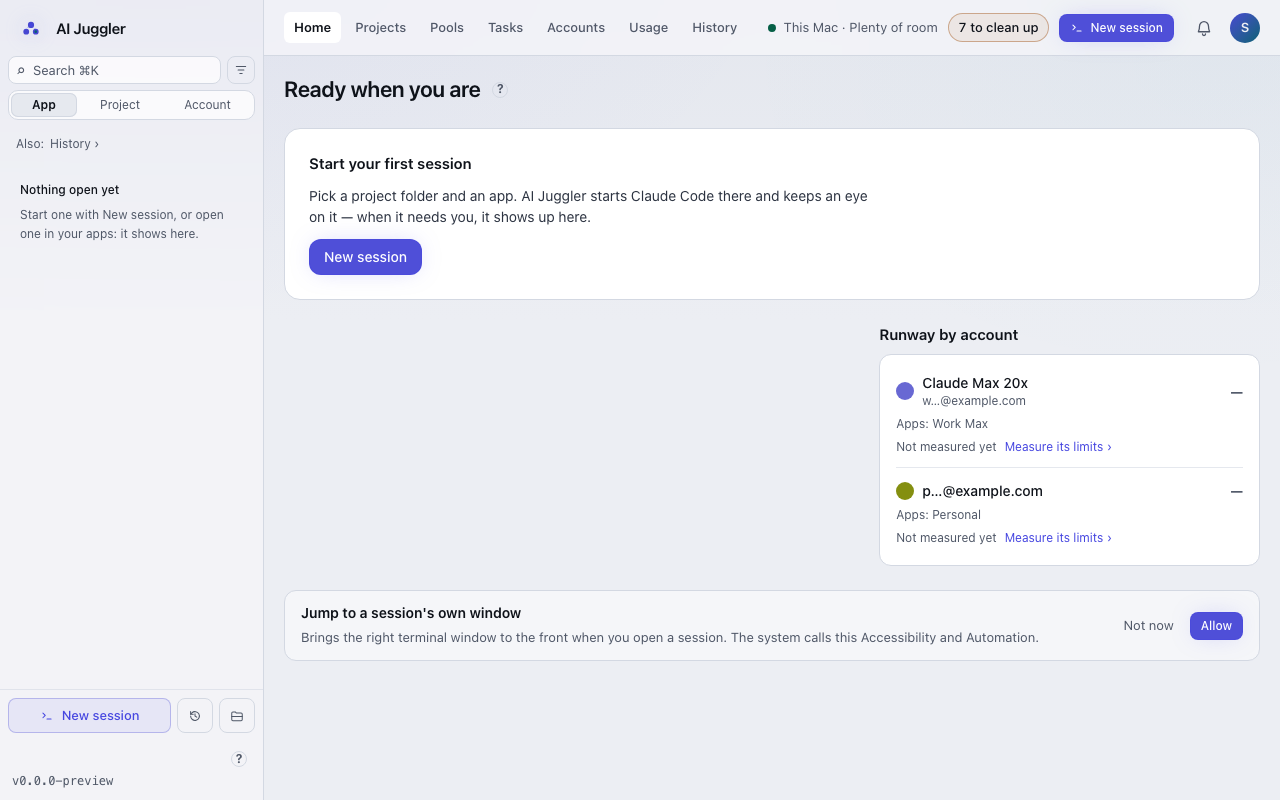
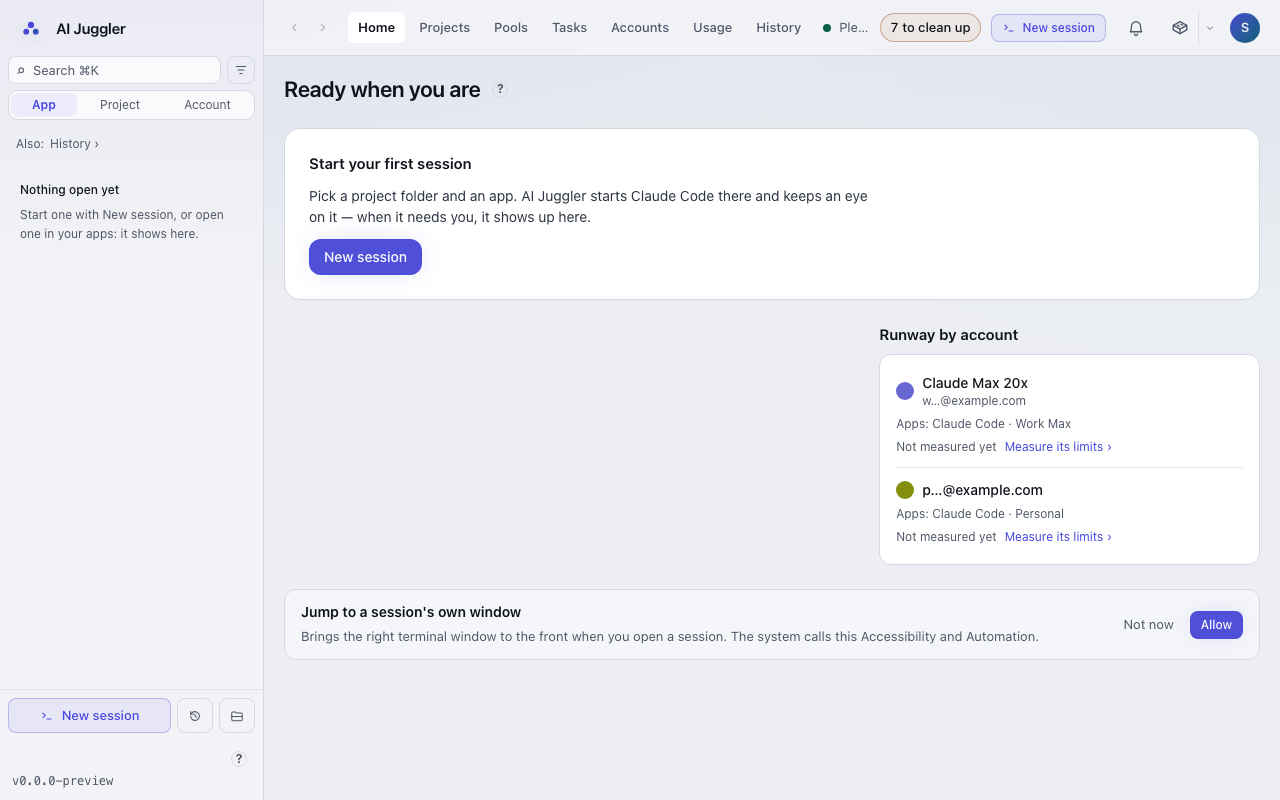
fix(ui): Home's Your apps cards line up (0.4.1)
The maintainer found the cards out of line: badges and buttons at
different heights, account lines on two lines, bars at different heights.
Every card now keeps the same rows: the name, one profile line, the
account line and its usage bar, then one bottom row with the action on
the left and "1 needs you" on the right. The account line is one line,
cut, with the whole words in its tooltip. A card with nothing there
keeps the row empty so bars and buttons line up; when no card in view
shows room, the rows are left out (no gap). Closed apps put their state
where the account line goes and Start in the same bottom row. Buttons
read "Open" (the card names the app; the accessible name stays whole).
"kept alive" moves beside the app's name so it never squeezes the
profile. A new places-gallery capture (home-cards, both themes) shows
measured room, a low Account and closed apps; 94-places and 95-app-icons
are re-captured with their critiques updated and stamped. A Home test
checks the shared rows and the badge in the Open row.

diff --git a/ui/src/components/HomeApps.tsx b/ui/src/components/HomeApps.tsx
@@ -54,7 +54,7 @@ function bringForward(group: RailGroup): void {
 /** 0.3.3: an app or profile kept alive (0.3.4: any remembered one) that
  * no session tile shows: down (why, and Start) or running with nothing
  * open yet (Open). */
-function KeptTile({ place }: { place: KnownPlaceInfo }): JSX.Element {
+function KeptTile({ place, rows }: { place: KnownPlaceInfo; rows: Rows }): JSX.Element {
   const running = place.app_pid !== null;
   // The open tiles' word for it ("Claude app"), D-64.
   const app = knownAppWord(place);
@@ -70,7 +70,7 @@ function KeptTile({ place }: { place: KnownPlaceInfo }): JSX.Element {
   };
   return (
     <li
-      className={"flex min-w-0 flex-col gap-3 rounded-card border border-hairline bg-surface p-4 " + (running ? "shadow-card" : "border-dashed")}
+      className={"flex h-full min-w-0 flex-col gap-3 rounded-card border border-hairline bg-surface p-4 " + (running ? "shadow-card" : "border-dashed")}
       data-testid={running ? "home-app-kept" : "home-app-closed"}
       data-place={place.id}
     >
@@ -80,16 +80,29 @@ function KeptTile({ place }: { place: KnownPlaceInfo }): JSX.Element {
           <AppName id={place.id} name={name}>
             {app}
           </AppName>
-          {profile && (
-            <span className="flex min-w-0 items-center gap-1 text-meta font-semibold text-ink">
-              <ProfileBadge app={place.colour_slot ?? place.id} name={profile} />
-              <span className="truncate">{profile}</span>
-            </span>
-          )}
+          {/* Always two lines, as a running card's: the profile, or none. */}
+          <span className="flex min-w-0 items-center gap-1 text-meta font-semibold text-ink">
+            {profile ? (
+              <>
+                <ProfileBadge app={place.colour_slot ?? place.id} name={profile} />
+                <span className="truncate" title={profile}>
+                  {profile}
+                </span>
+              </>
+            ) : (
+              "\u00a0"
+            )}
+          </span>
         </div>
       </div>
-      <span className={"text-meta " + (place.paused || place.lost ? "text-warning" : "text-muted")}>{placeWords(place)}</span>
-      <div className="mt-auto flex flex-wrap items-center gap-2">
+      {/* Its state where a running card's account line is. */}
+      <div className="flex flex-col gap-1">
+        <span className={"truncate text-meta " + (place.paused || place.lost ? "text-warning" : "text-muted")} title={placeWords(place)}>
+          {placeWords(place)}
+        </span>
+        {rows.bar && <div className="h-1.5" aria-hidden="true" />}
+      </div>
+      <Actions needs={0}>
         <button
           type="button"
           onClick={start}
@@ -101,8 +114,55 @@ function KeptTile({ place }: { place: KnownPlaceInfo }): JSX.Element {
           {/* The tile names the App already: "Start" (design review #48). */}
           {verb}
         </button>
-      </div>
+      </Actions>
     </li>
+  );
+}
+
+/** 0.4.1: which rows the cards in view keep, so every card lines up: the
+ * account line when any card has one (a down app's state stands there),
+ * the usage bar when any card has a measured one; none of them, no gap. */
+interface Rows {
+  words: boolean;
+  bar: boolean;
+}
+
+/** 0.4.1: a tile's account line and usage bar, the rows the cards in view
+ * keep (an empty one keeps its height): one line, cut with the whole words
+ * in its tooltip. */
+function AccountRows({ words, left, label, low, rows }: { words: string | null; left: number | null; label: string; low: boolean; rows: Rows }): JSX.Element | null {
+  if (!rows.words && !rows.bar) return null;
+  return (
+    <div className="flex flex-col gap-1" data-testid="home-app-account">
+      {rows.words && (
+        <span className={"truncate text-meta " + (low ? "text-warning" : "text-muted")} title={words ?? undefined}>
+          {words ?? "\u00a0"}
+        </span>
+      )}
+      {left !== null ? (
+        <div className="h-1.5 overflow-hidden rounded-full bg-surface-3" role="meter" aria-valuemin={0} aria-valuemax={100} aria-valuenow={left} aria-label={`${label}: ${words ?? ""}`}>
+          <div className={"h-full rounded-full " + (low ? "bg-warning" : "bg-accent")} style={{ width: `${left}%` }} />
+        </div>
+      ) : rows.bar ? (
+        <div className="h-1.5" aria-hidden="true" />
+      ) : null}
+    </div>
+  );
+}
+
+/** 0.4.1: the bottom row, in the same place on every card: the action on
+ * the left, what needs you (when anything does) on the right; one line. */
+function Actions({ children, needs }: { children: JSX.Element | null; needs: number }): JSX.Element {
+  return (
+    <div className="mt-auto flex min-h-7 flex-nowrap items-center justify-between gap-2">
+      {children ?? <span />}
+      {needs > 0 && (
+        <span className="inline-flex shrink-0 items-center gap-1 whitespace-nowrap rounded-full bg-warning-soft px-2 py-0.5 text-label font-semibold text-warning" data-testid="home-app-needs" title="Listed under Needs you">
+          <IconAlert width={11} height={11} aria-hidden="true" />
+          {needs} {needs === 1 ? "needs" : "need"} you
+        </span>
+      )}
+    </div>
   );
 }
 
@@ -123,75 +183,61 @@ function AppName({ id, name, children }: { id: string | null; name: string; chil
   );
 }
 
-function Tile({ group, runway, kept, appId }: { group: RailGroup; runway: Runway | null; kept: boolean; appId: string | null }): JSX.Element {
+function Tile({ group, runway, kept, appId, rows }: { group: RailGroup; runway: Runway | null; kept: boolean; appId: string | null; rows: Rows }): JSX.Element {
   const place = group.place!;
   const needs = group.items.filter((item) => item.need !== null).length;
   const count = group.items.length;
   const low = runway?.left !== null && runway?.left !== undefined && runway.left <= 25;
   const name = [place.app, place.profile].filter(Boolean).join(" · ");
   return (
-    <li className="flex min-w-0 flex-col gap-3 rounded-card border border-hairline bg-surface p-4 shadow-card" data-testid="home-app-tile" data-place={place.key}>
+    <li className="flex h-full min-w-0 flex-col gap-3 rounded-card border border-hairline bg-surface p-4 shadow-card" data-testid="home-app-tile" data-place={place.key}>
       <div className="flex min-w-0 items-start gap-3">
         <AppIcon appId={place.appId} appPid={place.appPid} name={place.app} size={32} />
         <div className="flex min-w-0 flex-1 flex-col gap-0.5">
-          <AppName id={appId} name={name}>
-            {place.app}
-          </AppName>
-          {/* The profile's badge beside its name, never on the icon
-              (D-38); the count moves under it rather than being cut. */}
-          <span className="flex min-w-0 flex-wrap items-center gap-x-1 gap-y-0.5 text-meta text-muted">
-            {place.profile && (
-              <span className="flex min-w-0 max-w-full items-center gap-1 font-semibold text-ink">
-                <ProfileBadge app={place.key} name={place.profile} />
-                <span className="truncate">{place.profile}</span>
-              </span>
-            )}
-            {place.profile ? <span>·</span> : null}
-            <span className="whitespace-nowrap">{count === 1 ? "1 session" : `${count} sessions`}</span>
-            {/* A pill, not "· kept alive": wrapped under the count, a line
-                that starts with a dot read as a fragment. */}
+          {/* The app's name, then "kept alive" beside it, where a
+              short name leaves room (0.4.1: never squeezing the profile). */}
+          <span className="flex min-w-0 items-center justify-between gap-2">
+            <AppName id={appId} name={name}>
+              {place.app}
+            </AppName>
             {kept && (
-              <span className="whitespace-nowrap rounded-full bg-accent/10 px-1.5 text-label font-medium text-accent-hi" data-testid="home-app-kept-mark" title="Keep alive: AI Juggler starts it again if it stops">
+              <span className="shrink-0 whitespace-nowrap rounded-full bg-accent/10 px-1.5 text-label font-medium text-accent-hi" data-testid="home-app-kept-mark" title="Keep alive: AI Juggler starts it again if it stops">
                 kept alive
               </span>
             )}
           </span>
+          {/* One line (0.4.1): the profile's badge beside its name, never
+              on the icon (D-38), then the count; the profile is cut first,
+              its whole name in the tooltip. */}
+          <span className="flex min-w-0 flex-nowrap items-center gap-x-1 text-meta text-muted">
+            {place.profile && (
+              <span className="flex min-w-0 items-center gap-1 font-semibold text-ink">
+                <ProfileBadge app={place.key} name={place.profile} />
+                <span className="truncate" title={place.profile}>
+                  {place.profile}
+                </span>
+              </span>
+            )}
+            {place.profile ? <span className="shrink-0">·</span> : null}
+            <span className="shrink-0 whitespace-nowrap">{count === 1 ? "1 session" : `${count} sessions`}</span>
+          </span>
         </div>
       </div>
-      {runway && (
-        <div className="flex flex-col gap-1">
-          {/* Two lines before it's cut: its Account's name and what's left
-              both whole at four cards a row (the 0.4 review). */}
-          <span className={"line-clamp-2 text-pretty text-meta " + (low ? "text-warning" : "text-muted")}>{runway.words}</span>
-          {runway.left !== null && (
-            <div className="h-1.5 overflow-hidden rounded-full bg-surface-3" role="meter" aria-valuemin={0} aria-valuemax={100} aria-valuenow={runway.left} aria-label={`${name}: ${runway.words}`}>
-              <div className={"h-full rounded-full " + (low ? "bg-warning" : "bg-accent")} style={{ width: `${runway.left}%` }} />
-            </div>
-          )}
-        </div>
-      )}
-      {/* Open on the left; what the amber count is, in words, on the
-          right (the review of 0.1.4), never squeezing the app's name. */}
-      {(place.appPid !== null || needs > 0) && (
-        <div className="mt-auto flex flex-wrap items-center justify-between gap-2">
-          {place.appPid !== null && (
-            <button
-              type="button"
-              onClick={() => bringForward(group)}
-              className="rounded-md border border-hairline px-2.5 py-1 text-meta font-medium text-ink outline-none hover:border-accent/40 focus-visible:ring-1 focus-visible:ring-accent/60"
-            >
-              Open {place.app}
-              <span className="sr-only"> · {place.profile}</span>
-            </button>
-          )}
-          {needs > 0 && (
-            <span className="ml-auto inline-flex shrink-0 items-center gap-1 rounded-full bg-warning-soft px-2 py-0.5 text-label font-semibold text-warning" data-testid="home-app-needs" title="Listed under Needs you">
-              <IconAlert width={11} height={11} aria-hidden="true" />
-              {needs} {needs === 1 ? "needs" : "need"} you
-            </span>
-          )}
-        </div>
-      )}
+      <AccountRows words={runway?.words ?? null} left={runway?.left ?? null} label={name} low={low} rows={rows} />
+      {/* The action on the left, what needs you on the right, on every card
+          in the same place (0.4.1); "Open": the card names the app. */}
+      <Actions needs={needs}>
+        {place.appPid !== null ? (
+          <button
+            type="button"
+            onClick={() => bringForward(group)}
+            aria-label={`Open ${name}`}
+            className="rounded-md border border-hairline px-2.5 py-1 text-meta font-medium text-ink outline-none hover:border-accent/40 focus-visible:ring-1 focus-visible:ring-accent/60"
+          >
+            Open
+          </button>
+        ) : null}
+      </Actions>
     </li>
   );
 }
@@ -216,15 +262,20 @@ export function HomeApps({ items, runwayOf }: { items: RailItem[]; runwayOf: (ac
   const cut = tiles.length > TILES_SHOWN + 1;
   const shown = all || !cut ? tiles : tiles.slice(0, TILES_SHOWN);
   const more = tiles.length - TILES_SHOWN;
+  const runways = shown.map((tile) => ("group" in tile ? runwayOf(tile.group.items[0]?.accountId ?? null) : null));
+  const rows: Rows = {
+    words: runways.some((runway) => runway !== null) || shown.some((tile) => "kept" in tile),
+    bar: runways.some((runway) => runway?.left !== null && runway?.left !== undefined),
+  };
   return (
     <section aria-labelledby="home-apps" className="flex flex-col gap-2.5" data-testid="home-apps">
       <SectionTitle id="home-apps">Your apps</SectionTitle>
       <ul className="grid grid-cols-[repeat(auto-fit,minmax(min(100%,210px),1fr))] gap-grid">
-        {shown.map((tile) =>
+        {shown.map((tile, at) =>
           "group" in tile ? (
-            <Tile key={tile.group.key} group={tile.group} runway={runwayOf(tile.group.items[0]?.accountId ?? null)} kept={placeFor(known, tile.group.place?.appPid ?? null)?.keep_alive === true} appId={tile.group.place ? appIdOfRailKey(tile.group.place.key, tile.group.items[0]?.accountId ?? null, known) : null} />
+            <Tile key={tile.group.key} group={tile.group} runway={runways[at] ?? null} rows={rows} kept={placeFor(known, tile.group.place?.appPid ?? null)?.keep_alive === true} appId={tile.group.place ? appIdOfRailKey(tile.group.place.key, tile.group.items[0]?.accountId ?? null, known) : null} />
           ) : (
-            <KeptTile key={tile.kept.id} place={tile.kept} />
+            <KeptTile key={tile.kept.id} place={tile.kept} rows={rows} />
           ),
         )}
         {cut && (

diff --git a/ui/tests/visual/places-gallery.spec.ts b/ui/tests/visual/places-gallery.spec.ts
@@ -8,7 +8,7 @@ import { type Page } from "@playwright/test";
 import { mkdirSync } from "node:fs";
 import { resolve } from "node:path";
 import { expect, gate, scan, test } from "./axe-gallery";
-import { placesConversations } from "../../src/preview/places";
+import { knownPlacesPreview, placesConversations } from "../../src/preview/places";
 
 const OUT = resolve(process.cwd(), "../docs/qa/evidence/_gallery/94-places");
 const T0 = new Date(2026, 9, 24, 15, 0, 0).getTime();
@@ -44,17 +44,31 @@ const SETS = {
 
 test.beforeAll(() => mkdirSync(OUT, { recursive: true }));
 
-async function seed(page: Page, set: keyof typeof SETS, theme: "dark" | "light") {
+/** 0.4.1: the cards' line-up with room measured (one Account low) and the
+ * remembered apps, the closed ones among them. */
+const LINE_UP = {
+  known: knownPlacesPreview(T0),
+  room: [
+    { account: "claude-work", five_hour: { percentage: 30, state: "measured", resets_at_ms: null }, weekly: null },
+    { account: "claude-personal", five_hour: { percentage: 82, state: "measured", resets_at_ms: null }, weekly: null },
+  ],
+};
+
+async function seed(page: Page, set: keyof typeof SETS, theme: "dark" | "light", extra: typeof LINE_UP | null = null) {
   await page.addInitScript(
-    ({ fixture, theme, t0 }) => {
+    ({ fixture, theme, t0, extra }) => {
       const w = window as unknown as Record<string, unknown>;
       w.__AIJ_FIXTURE__ = fixture;
+      if (extra) {
+        w.__AIJ_PLACES__ = extra.known;
+        w.__AIJ_QUOTA_DISPLAY__ = extra.room;
+      }
       localStorage.setItem("aij.theme", theme);
       localStorage.setItem("aij.onboarding.dismissed", "1");
       sessionStorage.setItem("aij.ready.skipped", "1");
       Date.now = () => t0;
     },
-    { fixture: { accounts: ACCOUNTS, projects: PROJECTS, ...SETS[set] }, theme, t0: T0 },
+    { fixture: { accounts: ACCOUNTS, projects: PROJECTS, ...SETS[set] }, theme, t0: T0, extra },
   );
   await page.emulateMedia({ reducedMotion: "reduce", colorScheme: theme });
   await page.setViewportSize({ width: 1280, height: 800 });
@@ -134,6 +148,14 @@ for (const theme of ["dark", "light"] as const) {
     await expect(page.getByTestId("home-heading")).toHaveText("3 sessions need you");
     await expect(page.getByTestId("home-app-tile")).toHaveCount(4);
     await shoot(page, "home-typical", theme);
+  });
+
+  test(`Home, the app cards line up: room measured, one low, closed apps after — ${theme}`, async ({ page }) => {
+    await seed(page, "eight", theme, LINE_UP);
+    await expect(page.getByTestId("home-app-closed").first()).toBeVisible();
+    await expect(page.getByTestId("home-app-account").first()).toBeVisible();
+    await page.getByTestId("home-apps").scrollIntoViewIfNeeded();
+    await shoot(page, "home-cards", theme);
   });
 
   test(`Home, busy — ${theme}`, async ({ page }) => {

diff --git a/ui/src/screens/home-places.test.tsx b/ui/src/screens/home-places.test.tsx
@@ -186,6 +186,27 @@ describe("Home, desktop first", () => {
     expect(measured.getAllByTestId("home-app-tile")[2]!.textContent).not.toContain("Work Max · 60% left");
   });
 
+  it("the cards line up (0.4.1): the account row and bar on every card when any has one, on none when none does; Open and the badge in one bottom row", async () => {
+    const view = home([], placesConversations(NOW));
+    const tiles = await view.findAllByTestId("home-app-tile");
+    // Nothing measured: no empty rows to leave a gap.
+    for (const tile of tiles) expect(within(tile).queryByTestId("home-app-account")).toBeNull();
+    cleanup();
+    seams().__AIJ_QUOTA_DISPLAY__ = [{ account: "claude-work", five_hour: { percentage: 40, state: "measured", resets_at_ms: null }, weekly: null }];
+    const measured = home([], placesConversations(NOW));
+    await waitFor(() => expect(measured.getAllByTestId("home-app-tile")[2]!.textContent).toContain("60% left"));
+    // Every card keeps the same two rows, a measured one's meter or an empty one of its height.
+    for (const tile of measured.getAllByTestId("home-app-tile")) {
+      const rows = within(tile).getByTestId("home-app-account");
+      expect(rows.children).toHaveLength(2);
+      expect(rows.children[0]!.className).toContain("truncate");
+    }
+    const work = measured.getAllByTestId("home-app-tile")[2]!;
+    expect(within(work).getByTestId("home-app-account").children[0]!.getAttribute("title")).toMatch(/60% left$/);
+    // The badge sits in the Open button's row.
+    expect(within(work).getByTestId("home-app-needs").parentElement).toBe(within(work).getByRole("button", { name: /^Open Claude/ }).parentElement);
+  });
+
   it("few needs: Pick up where you left off moves up beside them; many: it stays under the runway (0.4 design review, 39)", async () => {
     const ended = own("done", { status: "finished", last_activity_ms: NOW - 60_000 });
     const few = home([own("f1", { status: "failed" }), ended], []);

diff --git a/docs/qa/evidence/_gallery/94-places/critique.md b/docs/qa/evidence/_gallery/94-places/critique.md
@@ -1,4 +1,4 @@
-<!-- captures: 6705d81b3880 -->
+<!-- captures: 1d21e57b5c96 -->
 # 94-places: Home and the rail with no, one, a typical and a busy set of sessions
 
 Design critique (D-57, AJ-E2814). First critique of this family, written at the 0.3.2 re-render from its captures as they are now; updated after the 0.3.2 design passes.
@@ -11,14 +11,17 @@ Home at three loads (home-empty, home-typical with 8 open, home-busy with 40 ope
 
 Re-shot with 0.4's rail and words (D-62). The rail groups by App: rail-8 now shows four App groups (Claude Code · Work Max with its three terminal sessions in one group, ChatGPT, Claude app · Personal, Claude app · Work Max) where it showed five, each header with its App's dot, and a row's ↗ reads "Go to it in Claude app · Work Max". Rows carry their App's dot, never an Account colour; Inactive apps start folded. On Home (home-typical, home-busy) the Your apps cards say their room by Account ("Claude Max 20x · not measured yet", "p…@example.com · …"), and Runway by account shows each Account in its own colour (Claude Max 20x violet, p…@example.com olive), the only place Account colours appear.
 
+## 0.4.1
+
+The maintainer found Home's Your apps cards out of line: badges and buttons at different heights, account lines wrapping to two lines, bars at different heights. Every card now has the same rows: the name line, one profile line, the account line and its bar, then one bottom row with the action on the left and "1 needs you" on the right. An account line is one line, cut, with the whole words in its tooltip; a card with nothing to say there keeps the row empty so the bars and buttons still line up, and when no card in view has room to show (home-typical, home-busy, where nothing is measured yet, as design review 83 asks) the row is left out, with no empty gap. The Open buttons now read "Open" (the card names the app; the screen reader hears "Open Claude app · Work Max"), so ChatGPT's Open sits level with the others and the "1 needs you" chips sit level at the right of the same row (home-typical, home-busy). A profile line no longer wraps: in home-busy "Work M… · 10 sessions" stays one line with the whole name in the tooltip. The new home-cards capture shows measured room on the three Claude cards ("p…@example.com · 18% left" in amber with a short amber bar, "Claude Max 20x · 70% left" with violet bars at one height), ChatGPT with an empty row in the same place, the "kept alive" mark beside the app's name rather than squeezing the profile, and the two closed apps (Lab, Old) after them with their state where an account line goes and Start in the bottom row. Both themes read alike; the amber low state and the violet bars hold on the dark cards. home-empty has no cards; it changed only in the top bar, now led by the ‹ › Back and Forward buttons, which every Home capture shares.
+
 ## Weak
 
-- home-typical, home-busy: Open ChatGPT sits lower than the other cards' Open buttons, because only its card has no "1 needs you" chip and its button takes the chip's line.
-- home-busy: the Claude (Work Max) and Terminal cards wrap "Work Max ·" with the dot left at the line end and "10 sessions" alone below.
 - home-busy: in Needs you the fix/limits row's Open its page sits further right than the rows with a ↗ icon, so the buttons in the list don't align.
 - home-empty: Runway by account sits alone in the right column, leaving a large empty area to the left under "Start your first session".
 - rail-8, rail-40: group headers shorten the account to "Pers…" / "Work…" beside the ⚠ count, so two Claude groups are told apart only by their colour dot.
 - view-dark, view-light: the Show lines (Inactive, Quiet ones, Ended today…) have no tick or on/off mark, so the menu doesn't show what is shown.
 
-- home-typical, home-busy (0.4): a Your apps card's room line is cut ("Claude Max 20x · not measure…") now that it names the Account; it should wrap or shorten.
 - home-typical (0.4): the two Claude app cards (Personal, Work Max) wear two pink-family dots; with the status hues kept clear the App colours hold three families (blue, green, pink), so a fourth App repeats one.
+- home-cards (0.4.1): the closed Lab and Old cards sit on their own row, a little taller than they need beside nothing; with an empty account row on ChatGPT, the first row carries some air when only some Accounts are measured.
+- home-busy (0.4.1): the Work Max profile is cut to "Work M…" at four cards a row; the tooltip has it whole, but two Claude app cards are told apart only by their dots there.

diff --git a/docs/qa/evidence/_gallery/95-app-icons/critique.md b/docs/qa/evidence/_gallery/95-app-icons/critique.md
@@ -1,4 +1,4 @@
-<!-- captures: 788404e48938 -->
+<!-- captures: d5cc492696e1 -->
 # 95-app-icons: installed apps' own icons on Home, in the rail, in History and in the Go to session palette
 
 Design critique (D-57, AJ-E2814). First critique of this family, written at the 0.3.2 re-render from its captures as they are now; updated after the 0.3.2 design passes.
@@ -7,8 +7,11 @@ Design critique (D-57, AJ-E2814). First critique of this family, written at the 
 
 The app marks do their job at every size: Claude's and Terminal's own icons lead the Your apps cards (home-1280, home-2000), the rail's group headers (rail-1280, rail-2000), the History rows (history-1280, history-2000) and the Go to session palette's rows (palette-1280, palette-2000), with the profile's colour dot beside the name rather than on the icon. ChatGPT has no icon in this fixture and falls back to a neutral lettered "C" tile, which sits quietly beside the real icons and does not look broken. The app cards and the Needs you and Runway cards stand off the dark canvas and read as white cards on grey in light; Open its page is the solid violet primary, and the amber "1 needs you" chips and "Asks you" labels stay legible in both themes. In dark the lighter accent shows on the logo mark, the header's New session, the rail's New session label and History's focused search ring; the top bar stays one row with "This Mac · Plenty of room" and "7 to clean up" whole at 1280 and 2000. The palettes are re-rendered now on the 0.3.2 palette: "Go to a session or screen, or type what to do…", an Actions group (New session… ⌘N, lit) above Sessions, an icon and "Work Max · in Claude" on every row, "open" on the right and "↩ open its page · ⌘↩ go to its app" in the footer; the last row ("Fix the flaky login test") is cut by the list's bottom edge, which reads as "scroll for more". As elsewhere on Home, the ChatGPT card, the only one without a "1 needs you" chip, drops Open ChatGPT to the chip's line, so it sits lower than the other cards' Open buttons (home-1280, home-2000). After the second pass the rail keeps every time whole and cuts the project instead ("trip-not… · viewed 40 min ago", "ai-ju… · viewed 2 min ago", "payments-… · 4 min ago", "ai-… · 2 min ago") in rail-1280, rail-2000 and every Home and History capture; the palettes changed only in the blurred rail behind them. A later fix closed the gap after short projects and the "2 min ago" / "Probably asks you" collision while keeping every time whole ("blog · 12 min ago", "ai… · 2 min ago", the project giving way). rail-1280-dark now opens with a Needs you group above Open now (Migrate the billing webh…, Answer the release ques…, Tidy the blog's images, each with its state and an open-in-app mark), whose meta lines are cut ("payments-api · Claude · Wo…"); Open now and its groups move down under it.
 
+## 0.4.1
+
+Your apps cards line up (the maintainer's report): every card has the same rows and one bottom row, the action ("Open"; the card names the app, the screen reader hears it whole) on the left and "1 needs you" on the right. In home-1280 and home-2000 the four Open buttons sit on one line, ChatGPT's included, and the three amber chips sit level at the right of that line. Nothing is measured in this fixture, so the account row is left out rather than kept empty (design review 83 says unknown room says nothing); 94-places/home-cards shows the rows with room measured.
+
 ## Weak
 
-- home-1280, home-2000: Open ChatGPT sits lower than Open Claude and Open Terminal in the same row of cards.
 - rail-1280-dark: the Needs you rows cut their meta ("payments-api · Claude · Wo…", "ai-juggler · Terminal · Work …") and titles ("Migrate the billing webh…").
 - history-2000-dark: the two rows sit at the top of a wide centred list with the rest of the page empty; fine for two rows, thin for a real history.
